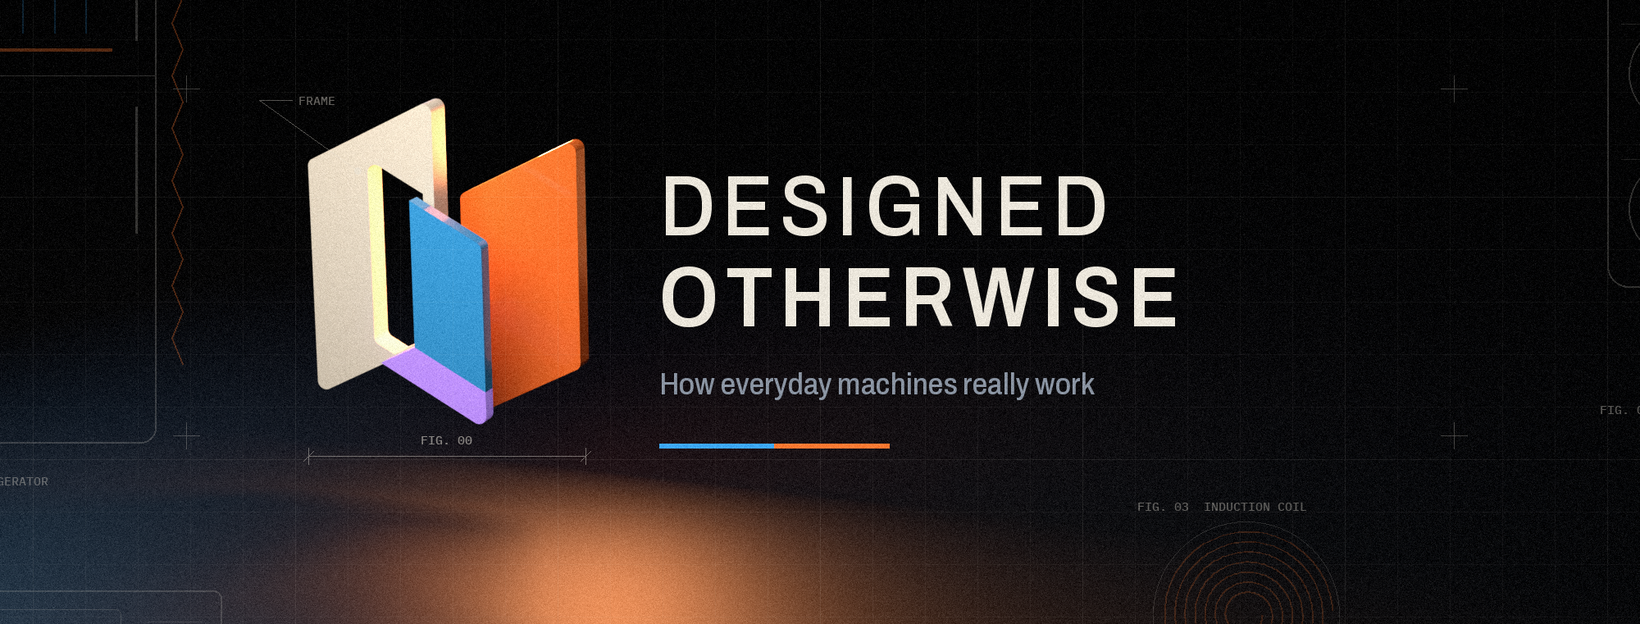
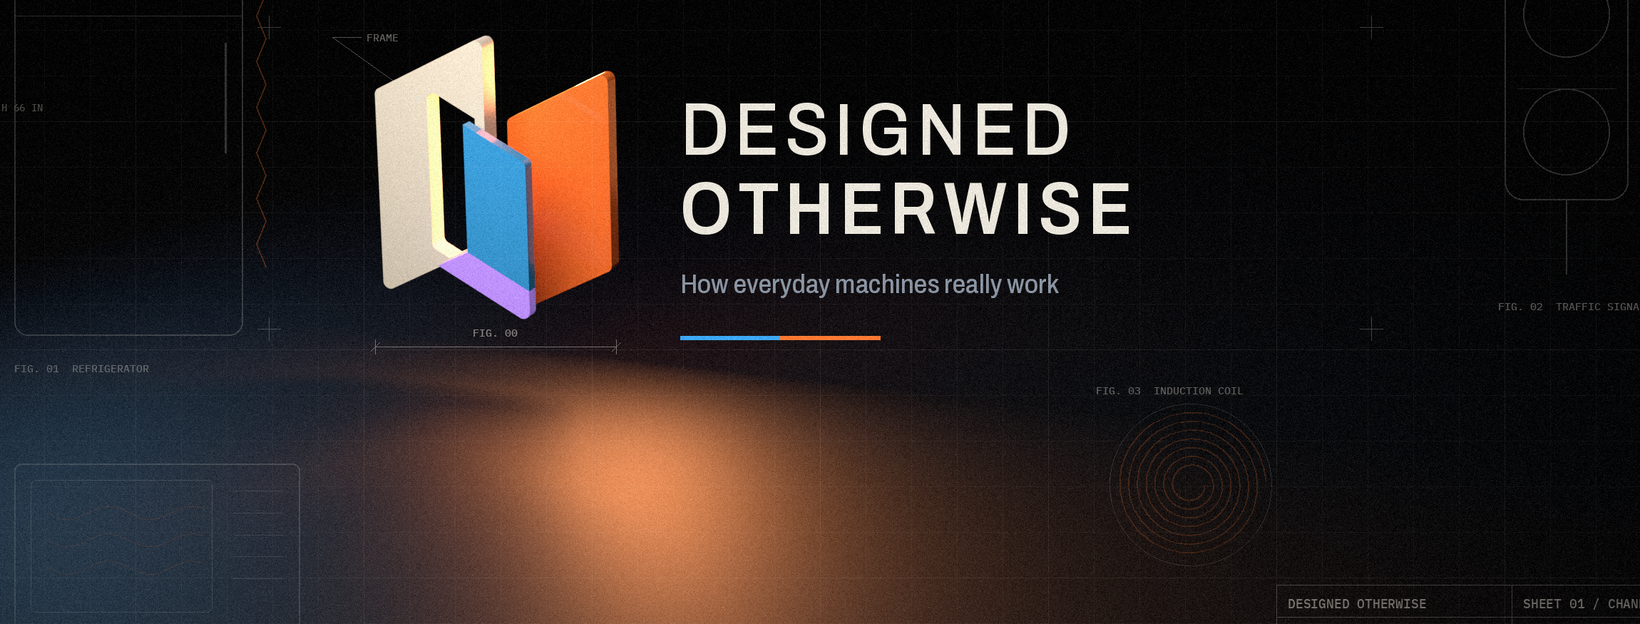
Sync Facebook cover fix
Claude-Session: https://claude.ai/code/session_01Sj478QoMsnn4xkWmRSktqR

diff --git a/brand/build.py b/brand/build.py
@@ -135,7 +135,7 @@ def main():
     compose.banner(os.path.join(HERE, "render", "banner-hero.png"), banner_path)
     ban = Image.open(banner_path)
     # Facebook cover and share image: crops of the banner around the lockup (mobile crops the cover's sides)
-    save(ban.crop((280, 400, 2280, 1161)).resize((1640, 624), Image.LANCZOS), "facebook-cover-1640x624.png")
+    save(ban.crop((130, 470, 2430, 1345)).resize((1640, 624), Image.LANCZOS), "facebook-cover-1640x624.png")  # lockup sits high: Facebook centres the avatar over the lower cover
     save(ban.crop((400, 260, 2160, 1184)).resize((1200, 630), Image.LANCZOS), "share-image-1200x630.png")
     # end screen: the hero render with the drawing layer but no wordmark, so YouTube's tiles can sit on it
     save(compose.backdrop(os.path.join(HERE, "render", "banner-hero.png")).resize((1920, 1080), Image.LANCZOS), "end-screen-1920x1080.png")
